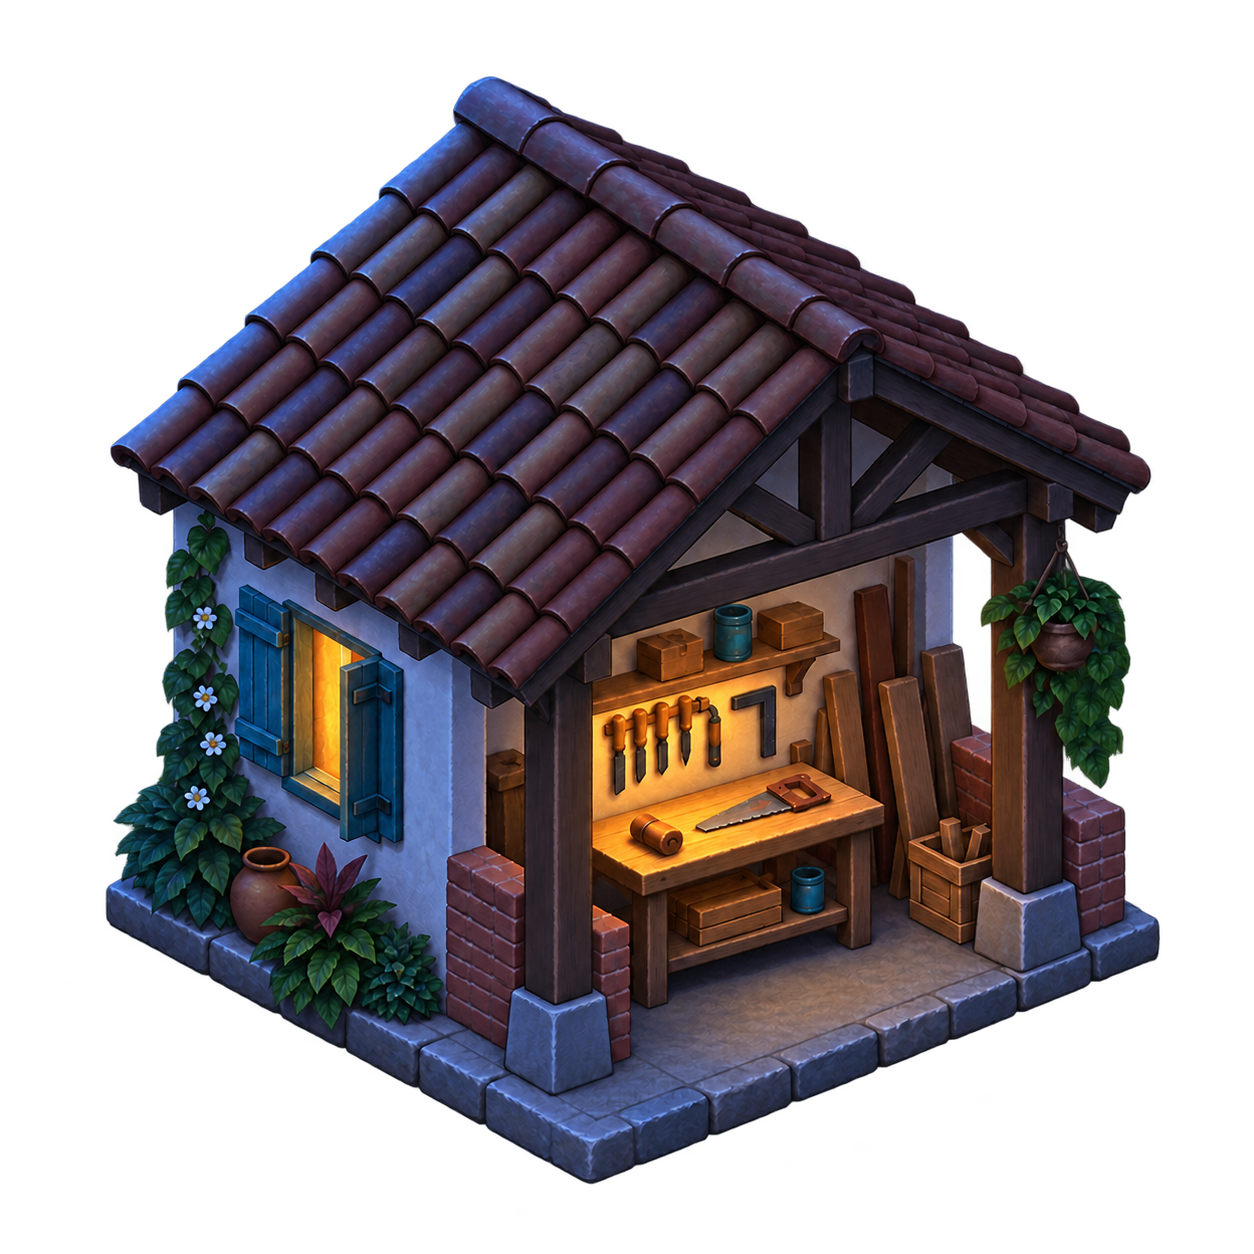
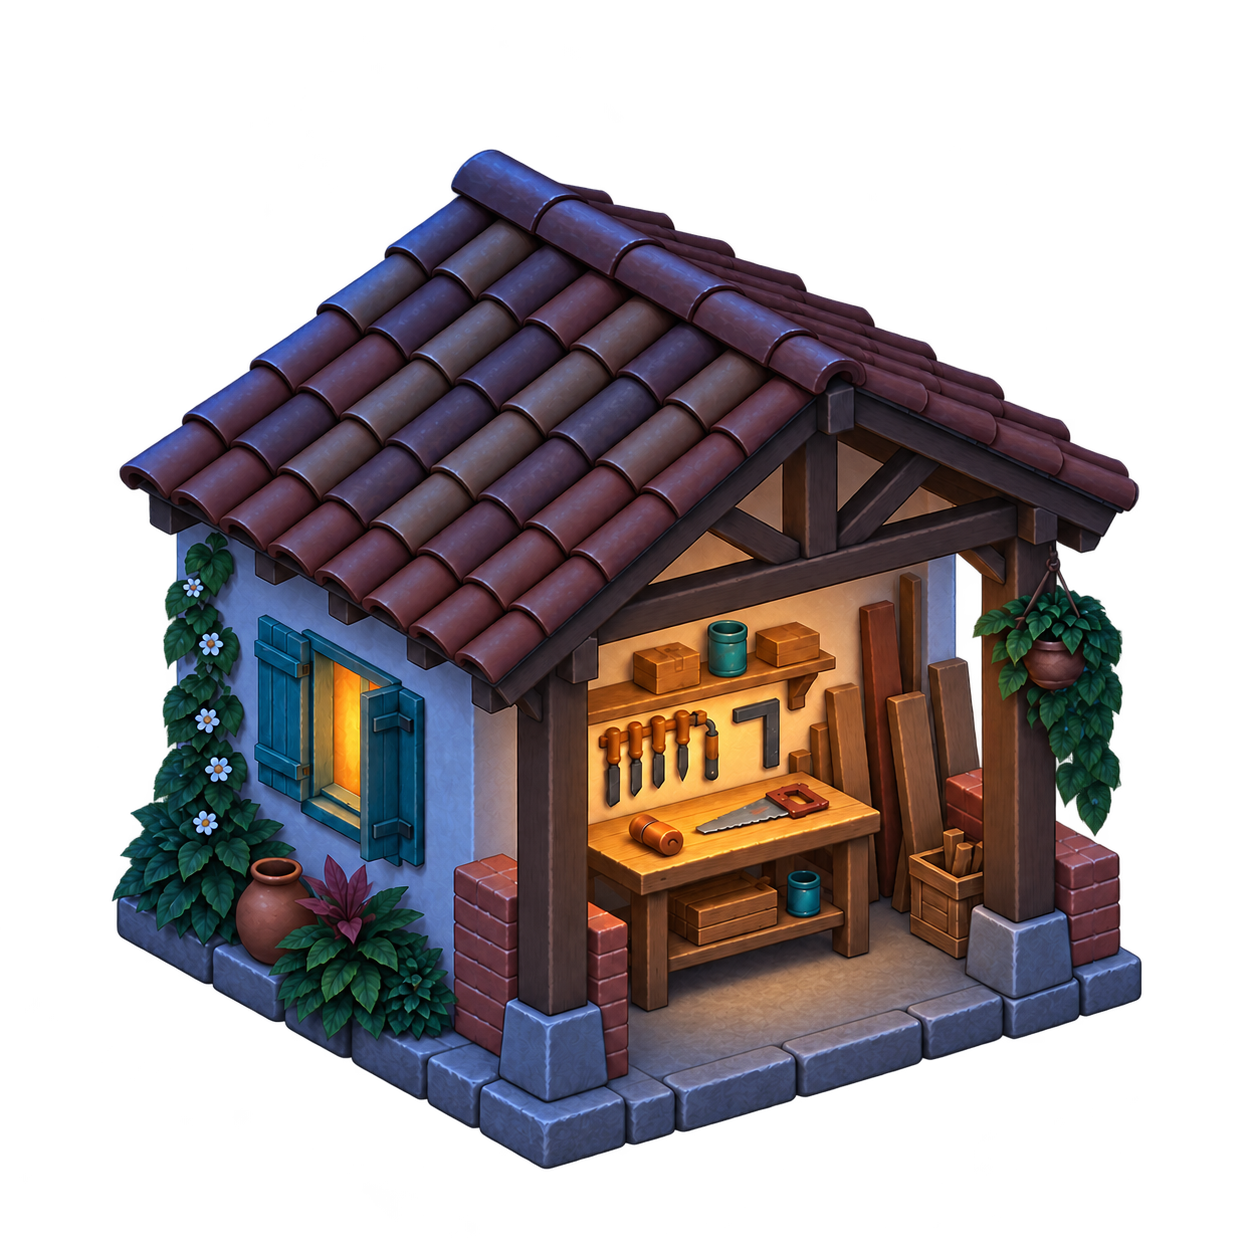
Correct workshop roof geometry and align its day and night sprites

diff --git a/web/building-silhouettes.js b/web/building-silhouettes.js
@@ -1,3 +1,3 @@
 // Generated from full day/night source alpha ≥32, matching the art studio.
 // Run node scripts/sync-building-silhouettes.mjs after changing a building PNG.
[2 lines of base64/hex data omitted]

diff --git a/web/building-projection.js b/web/building-projection.js
@@ -1,5 +1,7 @@
 // Hand-traced structural edges, in a 1280 px reference view (640 for atlas
-// cells). Roof pitches, foliage, bunting and curved tank rims are not axes.
+// cells, or the actual source size for replaced sprites). Sloping roof pitches,
+// foliage, bunting and curved tank rims are not ground axes; roof ridges and
+// horizontal eaves are, and must agree with the walls and foundation.
 // Each direction contains two independently traced, nominally parallel edges.
 // Keep these landmarks visible in the projection review; do not infer a pass
 // merely from the requested camera in an image-generation prompt.
@@ -20,7 +22,7 @@ export const buildingProjection = {
   well: { size:1280, right:[[337,950,505,1040],[218,944,475,1086]], left:[[785,1001,1026,869],[790,1091,1040,953]], upright:[961,343,961,684] },
   compost: { size:1280, right:[[550,307,747,415],[538,657,735,773]], left:[[247,441,484,299],[540,598,754,464]], upright:[781,805,781,1075] },
   square: { size:1280, right:[[460,851,598,911],[649,752,786,810]], left:[[310,733,541,611],[752,898,994,764]], upright:[599,919,599,966] },
-  workshop: { size:1280, right:[[116,894,588,1141],[173,511,503,684]], left:[[591,1141,1149,930],[602,651,1025,505]], upright:[554,714,554,990] },
+  workshop: { size:1254, right:[[118,917,548,1145],[152,522,505,708],[471,185,828,374]], left:[[553,1145,1131,981],[594,640,1007,531],[637,867,876,806]], upright:[558,746,558,1002], rightLabels:['Side foundation','Side eave','Roof ridge'], leftLabels:['Front foundation','Front lintel','Workbench front'] },
   coop: { size:1280, right:[[355,753,591,884],[277,486,579,657]], left:[[665,648,921,547],[661,886,746,853]], upright:[634,709,634,994] },
   'home-veranda': { size:1280, right:[[100,852,574,1098],[350,612,445,658]], left:[[574,1098,1156,852],[636,699,1102,503]], upright:[571,731,571,1065] },
   'home-gable': { size:1280, right:[[151,797,650,1061],[200,484,603,699]], left:[[650,1061,1140,841],[897,757,970,724]], upright:[674,719,674,1020] },

diff --git a/web/artwork/projection.js b/web/artwork/projection.js
@@ -24,12 +24,13 @@ function render(){
     let error=0;
     if(m){
       const point=(x,y)=>{const [u,v]=meshPoint(config.mesh,[x,y]);return [200+(u/m.size-.5)*w,260+((v/m.size-art.anchor)*vertical+(u/m.size-.5)*shear)*w];};
-      for(const [direction,target]of [['right',.5],['left',-.5]])for(const[x,y,X,Y]of m[direction]){
+      for(const [direction,target]of [['right',.5],['left',-.5]])for(const [index,[x,y,X,Y]]of m[direction].entries()){
         const p=point(x,y),q=point(X,Y),ideal=[q[0],p[1]+target*(q[0]-p[0])];
         error=Math.max(error,Math.abs(q[1]-ideal[1])/1.85);
         if(guides){
           ctx.lineWidth=1.7;ctx.strokeStyle='#50e1ce';ctx.setLineDash([]);ctx.beginPath();ctx.moveTo(...p);ctx.lineTo(...ideal);ctx.stroke();
           ctx.lineWidth=1.2;ctx.strokeStyle='#f4a44c';ctx.setLineDash([4,3]);ctx.beginPath();ctx.moveTo(...p);ctx.lineTo(...q);ctx.stroke();ctx.setLineDash([]);
+          const label=m[direction+'Labels']?.[index];if(label){ctx.font='8px sans-serif';ctx.fillStyle=night?'#fff6dc':'#263b31';ctx.fillText(label,p[0]+3,p[1]-4);}
         }
       }
       if(guides){const[x,y,X,Y]=m.upright,p=point(x,y),q=point(X,Y);ctx.strokeStyle='#50e1ce';ctx.lineWidth=1;ctx.beginPath();ctx.moveTo(...p);ctx.lineTo(...q);ctx.stroke();}

diff --git a/web/building-footprints.js b/web/building-footprints.js
@@ -36,7 +36,7 @@ export const paintedGrounds={
   'home-veranda':[1280,[[100,887],[574,1130],[1156,887]]],
   'home-gable':[1280,[[151,823],[650,1085],[1140,867]]],
   'home-courtyard':[1280,[[84,880],[584,1124],[1173,880]]],
-  workshop:[1280,[[116,918],[588,1165],[1149,954]]],
+  workshop:[1254,[[118,935],[548,1167],[1131,1002]]],
   square:[1280,[[54,879],[634,1168],[1234,895]]],
   solar_farm:[1280,[[101,778],[595,1030],[1160,713]]],
   well:[1280,[[218,944],[590,1140],[1040,953]]],
